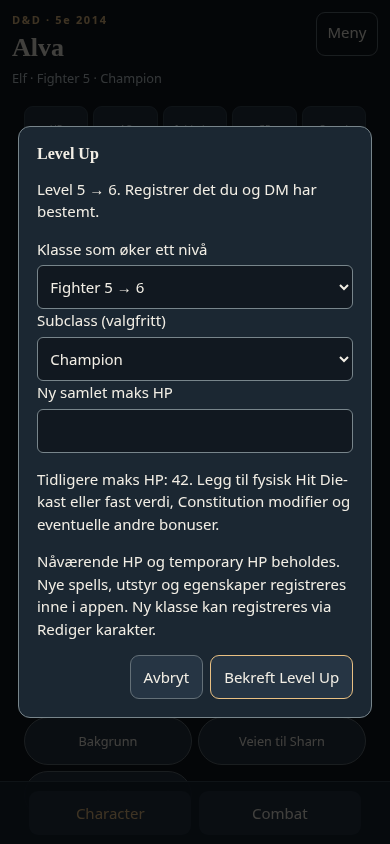
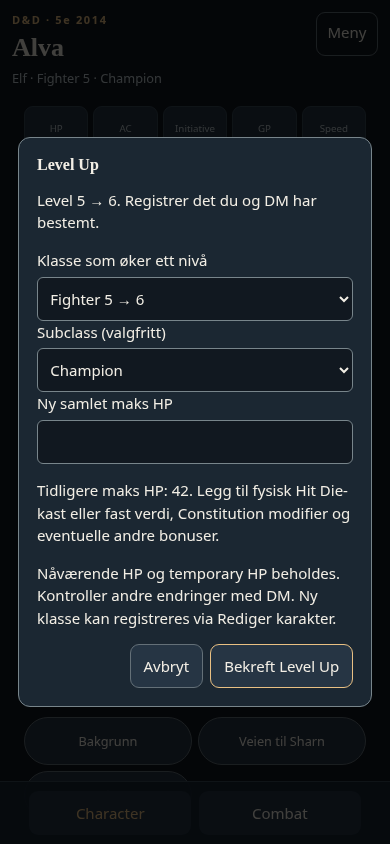
Clarify registration help without promising unfinished editors

diff --git a/src/ui/character-form.ts b/src/ui/character-form.ts
@@ -31,7 +31,7 @@ export function characterForm(c: Character, creating: boolean) {
     <fieldset><legend>Grunnverdier</legend><p>Angi endelige ability scores, inkludert bonuser.</p><div class="form-grid">${abilities.map(a => field(a, a, c.abilityScores[a], 'type="number" min="0" required')).join('')}</div>
     ${field('Maks HP fra karakterarket', 'hpMax', c.hp.max || '', 'type="number" min="1" required')}
     <p>På level 1: full Hit Die + Constitution modifier. Senere levels: fysisk kast eller fast verdi + Constitution modifier. Angi samlet maks HP her.</p>
-    <p>${creating ? 'Karakteren starter med full HP. Utstyr og egenskaper legges til inne i appen.' : 'Nåværende HP og temporary HP beholdes. Skade og healing registreres i Combat.'}</p></fieldset>`;
+    <p>${creating ? 'Karakteren starter med full HP. Utstyr legges til inne i appen.' : 'Nåværende HP og temporary HP beholdes. Skade og healing registreres i Combat.'}</p></fieldset>`;
 }
 export function readSubclass(root: ParentNode) {
   const choice = root.querySelector<HTMLSelectElement>('[name="subclassChoice"]')!.value;

diff --git a/src/main.ts b/src/main.ts
@@ -184,7 +184,7 @@ function levelUp(c: Character) {
     <div data-level-subclass></div>
     ${field('Ny samlet maks HP', 'maxHp', '', `type="number" min="${Math.max(1, c.hp.max)}" required`)}
     <p>Tidligere maks HP: ${c.hp.max}. Legg til fysisk Hit Die-kast eller fast verdi, Constitution modifier og eventuelle andre bonuser.</p>
-    <p>Nåværende HP og temporary HP beholdes. Nye spells, utstyr og egenskaper registreres inne i appen. Ny klasse kan registreres via Rediger karakter.</p>`, async form => {
+    <p>Nåværende HP og temporary HP beholdes. Kontroller andre endringer med DM. Ny klasse kan registreres via Rediger karakter.</p>`, async form => {
       const data = new FormData(form);
       const draft = levelUpCharacter(c, String(data.get('levelClass')), Number(data.get('maxHp')), readSubclass(form));
       await repo.save(draft, 'level-up', `Level Up: ${c.level} → ${draft.level}, maks HP ${c.hp.max} → ${draft.hp.max}`);
